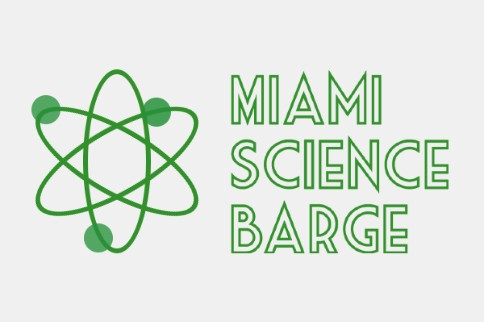
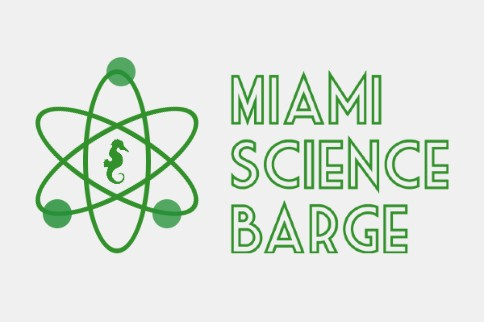
Added seahorse to hype

diff --git a/theme/hype.hyperesources/hype_hype_generated_script.js b/theme/hype.hyperesources/hype_hype_generated_script.js
@@ -2,5 +2,5 @@
 
 (function(){(function k(){var f="hype.hyperesources",d="hype",c="hype_hype_container";if(false==!1)try{for(var g=document.getElementsByTagName("script"),a=0;a<g.length;a++){var b=g[a].src;if(null!=b&&-1!=b.indexOf("hype_hype_generated_script.js")){f=b.substr(0,b.lastIndexOf("/"));break}}}catch(m){}if(false==!1&&null==window.HYPE_458)null==window.HYPE_dtl_458?(window.HYPE_dtl_458=[],window.HYPE_dtl_458.push(k),d=document.getElementsByTagName("head")[0],c=document.createElement("script"),
 a=navigator.userAgent.match(/MSIE (\d+\.\d+)/),a=parseFloat(a&&a[1])||null,c.type="text/javascript",c.src=f+"/"+(!0==(null!=a&&10>a||false==!0)?"HYPE-458.full.min.js":"HYPE-458.thin.min.js"),d.appendChild(c)):window.HYPE_dtl_458.push(k);else{window.HYPE_dtl_458=[];g=window.HYPE.documents;if(null!=g[d]){b=1;a=d;do d=""+a+"-"+b++;while(null!=g[d]);for(var e=document.getElementsByTagName("div"),b=!1,a=0;a<e.length;a++)if(e[a].id==c&&null==e[a].getAttribute("HYP_dn")){var b=
-1,h=c;do c=""+h+"-"+b++;while(null!=document.getElementById(c));e[a].id=c;b=!0;break}if(!1==b)return}b=[];b=[];e={};h={};for(a=0;a<b.length;a++)try{h[b[a].identifier]=b[a].name,e[b[a].name]=eval("(function(){return "+b[a].source+"})();")}catch(l){window.console&&window.console.log(l),e[b[a].name]=function(){}}f=new HYPE_458(d,c,{"0":{p:1,n:"sci-barge-outline.png",g:"44",t:"@1x"}},f,[],e,[{n:"Untitled Scene",o:"1",X:[0]}],[{A:{a:[{p:0}]},o:"3",p:"600px",x:0,cA:false,Z:400,Y:600,c:"#F0F0F0",L:[],bY:1,d:600,U:{},T:{kTimelineDefaultIdentifier:{f:30,z:5,i:"kTimelineDefaultIdentifier",n:"Main Timeline",j:{"0":[[120,256,120,256,133,253,183,223],[183,223,215,204,254,152,243,143],[243,143,216.03030303030303,121.42424242424242,150,153,124,166],[124,166,123,166,64.265993265993274,211.62809917355372,55,223],[55,223,33,250,58.575757575757578,264.50505050505052,66,265],[66,265,84,266,113,258,113,258]],"1":[[243,247,243,247,245,218,167,167],[167,167,111,130,57.694520967248238,127.28619528619528,49,142],[49,142,31,173,105,221,115,227],[115,227,235,300,242,247,242,247]],"2":[[174,124,174,124,183,151,186,204],[186,204,189,261,158,311,145,312],[145,312,113,314,104,231,103,190],[103,190,102,158,121.72727272727272,88,145,88],[145,88,159,89,174,125,174,125]]},a:[{o:"52",y:0,z:5,i:"a",e:95,a:"0",r:true,f:"b",s:102},{o:"52",y:0,z:5,i:"b",e:240,a:"0",r:true,f:"b",s:238},{o:"53",y:0,z:5,i:"a",e:224,a:"1",r:true,f:"b",s:225},{o:"53",y:0,z:5,i:"b",e:229,a:"1",r:true,f:"b",s:229},{o:"54",y:0,z:5,i:"b",e:107,a:"2",r:true,f:"b",s:106},{o:"54",y:0,z:5,i:"a",e:156,a:"2",r:true,f:"b",s:156},{f:"c",p:2,y:5,z:0,i:"ActionHandler",s:{a:[{i:0,b:"kTimelineDefaultIdentifier",p:9,symbolOid:"2"}]},o:"kTimelineDefaultIdentifier"},{y:5,i:"b",s:229,z:0,o:"53",f:"c"},{y:5,i:"a",s:224,z:0,o:"53",f:"c"},{y:5,i:"a",s:95,z:0,o:"52",f:"c"},{y:5,i:"b",s:240,z:0,o:"52",f:"c"},{y:5,i:"a",s:156,z:0,o:"54",f:"c"},{y:5,i:"b",s:107,z:0,o:"54",f:"c"}],b:[]}},bZ:180,O:["55","54","53","52","51","50","49"],v:{"52":{b:238,z:4,K:"None",c:36,L:"None",d:36,M:0,e:0.84936031879194629,N:0,O:0,g:"#339126",P:0,Q:0,tX:0.5,R:"#339126",j:"absolute",S:0,aI:"50%",k:"div",T:0,tY:0.5,aJ:"50%",aK:"50%",aL:"50%",A:"#339126",B:"#339126",bL:0,C:"#339126",D:"#339126",x:"visible",I:"None",a:102,J:"None"},"55":{h:"44",p:"no-repeat",x:"visible",a:286,q:"100% 100%",b:86,j:"absolute",r:"inline",c:270,k:"div",z:7,d:228},"50":{bR:0,c:72,d:216,I:"Solid",J:"Solid",f:120,K:"Solid",t:17,L:"Solid",M:6,aY:0,w:"",aI:"50%",A:"#3C9200",N:6,O:6,x:"visible",aJ:"50%",j:"absolute",C:"#3C9200",z:2,k:"div",D:"#3C9200",aK:"50%",B:"#3C9200",P:6,a:103,aL:"50%",b:86},"53":{b:229,z:5,K:"None",c:36,L:"None",d:36,M:0,e:0.77616401006711411,N:0,O:0,g:"#339126",P:0,Q:0,tX:0.5,R:"#339126",j:"absolute",S:0,aI:"50%",k:"div",T:0,tY:0.5,aJ:"50%",aK:"50%",aL:"50%",A:"#339126",B:"#339126",r:"inline",bL:0,C:"#339126",D:"#339126",x:"visible",I:"None",a:225,J:"None"},"51":{bR:0,c:72,d:216,I:"Solid",J:"Solid",f:240,K:"Solid",t:17,L:"Solid",M:6,aY:0,w:"",aI:"50%",A:"#3C9200",N:6,O:6,x:"visible",aJ:"50%",j:"absolute",C:"#3C9200",z:3,k:"div",D:"#3C9200",aK:"50%",B:"#3C9200",P:6,a:103,aL:"50%",b:86},"54":{b:106,z:6,K:"None",c:36,L:"None",d:36,M:0,e:0.77616399526596069,N:0,O:0,g:"#339126",P:0,Q:0,tX:0.5,R:"#339126",j:"absolute",S:0,aI:"50%",k:"div",T:0,tY:0.5,aJ:"50%",aK:"50%",aL:"50%",A:"#339126",B:"#339126",r:"inline",bL:0,C:"#339126",D:"#339126",x:"visible",I:"None",a:156,J:"None"},"49":{c:72,d:216,I:"Solid",J:"Solid",K:"Solid",t:17,L:"Solid",M:6,w:"",aI:"50%",A:"#3C9200",N:6,x:"visible",j:"absolute",aJ:"50%",O:6,C:"#3C9200",z:1,k:"div",D:"#3C9200",aK:"50%",B:"#3C9200",P:6,a:103,aL:"50%",b:86}}}],{},h,{},
+1,h=c;do c=""+h+"-"+b++;while(null!=document.getElementById(c));e[a].id=c;b=!0;break}if(!1==b)return}b=[];b=[];e={};h={};for(a=0;a<b.length;a++)try{h[b[a].identifier]=b[a].name,e[b[a].name]=eval("(function(){return "+b[a].source+"})();")}catch(l){window.console&&window.console.log(l),e[b[a].name]=function(){}}f=new HYPE_458(d,c,{"0":{p:1,n:"sci-barge-outline.png",g:"44",t:"@1x"},"1":{p:1,n:"seahorse-green.png",g:"49",o:true,t:"@1x"},"2":{p:1,n:"seahorse-green%402x.png",g:"49",o:true,t:"@2x"}},f,[],e,[{n:"Untitled Scene",o:"1",X:[0]}],[{A:{a:[{p:0}]},o:"3",p:"600px",x:0,cA:false,Z:400,Y:600,c:"#F0F0F0",L:[],bY:1,d:600,U:{},T:{kTimelineDefaultIdentifier:{f:30,z:5,i:"kTimelineDefaultIdentifier",n:"Main Timeline",j:{"0":[[120,256,120,256,133,253,183,223],[183,223,215,204,254,152,243,143],[243,143,216.03030303030303,121.42424242424242,150,153,124,166],[124,166,123,166,64.265993265993274,211.62809917355372,55,223],[55,223,33,250,58.575757575757578,264.50505050505052,66,265],[66,265,84,266,113,258,113,258]],"1":[[243,247,243,247,245,218,167,167],[167,167,111,130,57.694520967248238,127.28619528619528,49,142],[49,142,31,173,105,221,115,227],[115,227,235,300,242,247,242,247]],"2":[[174,124,174,124,183,151,186,204],[186,204,189,261,158,311,145,312],[145,312,113,314,104,231,103,190],[103,190,102,158,121.72727272727272,88,145,88],[145,88,159,89,174,125,174,125]]},a:[{o:"56",y:0,z:5,i:"a",e:95,a:"0",r:true,f:"b",s:102},{o:"56",y:0,z:5,i:"b",e:240,a:"0",r:true,f:"b",s:238},{o:"57",y:0,z:5,i:"a",e:224,a:"1",r:true,f:"b",s:225},{o:"57",y:0,z:5,i:"b",e:229,a:"1",r:true,f:"b",s:229},{o:"58",y:0,z:5,i:"b",e:107,a:"2",r:true,f:"b",s:106},{o:"58",y:0,z:5,i:"a",e:156,a:"2",r:true,f:"b",s:156},{f:"c",p:2,y:5,z:0,i:"ActionHandler",s:{a:[{i:0,b:"kTimelineDefaultIdentifier",p:9,symbolOid:"2"}]},o:"kTimelineDefaultIdentifier"},{y:5,i:"b",s:229,z:0,o:"57",f:"c"},{y:5,i:"a",s:224,z:0,o:"57",f:"c"},{y:5,i:"a",s:95,z:0,o:"56",f:"c"},{y:5,i:"b",s:240,z:0,o:"56",f:"c"},{y:5,i:"a",s:156,z:0,o:"58",f:"c"},{y:5,i:"b",s:107,z:0,o:"58",f:"c"}],b:[]}},bZ:180,O:["60","59","58","57","56","55","54","53"],v:{"60":{bR:0,h:"49",p:"no-repeat",x:"visible",a:128,q:"100% 100%",b:172,j:"absolute",r:"inline",z:8,k:"div",c:32,d:56,aY:0},"55":{bR:0,c:72,d:216,I:"Solid",J:"Solid",f:240,K:"Solid",t:17,L:"Solid",M:6,aY:0,w:"",aI:"50%",A:"#3C9200",N:6,O:6,x:"visible",aJ:"50%",j:"absolute",C:"#3C9200",z:3,k:"div",D:"#3C9200",aK:"50%",B:"#3C9200",P:6,a:103,aL:"50%",b:86},"58":{b:106,z:6,K:"None",c:36,L:"None",d:36,M:0,e:0.77616399526596069,N:0,O:0,g:"#339126",P:0,Q:0,tX:0.5,R:"#339126",j:"absolute",S:0,aI:"50%",k:"div",T:0,tY:0.5,aJ:"50%",aK:"50%",aL:"50%",A:"#339126",B:"#339126",r:"inline",bL:0,C:"#339126",D:"#339126",x:"visible",I:"None",a:156,J:"None"},"53":{c:72,d:216,I:"Solid",J:"Solid",K:"Solid",t:17,L:"Solid",M:6,w:"",aI:"50%",A:"#3C9200",N:6,x:"visible",j:"absolute",aJ:"50%",O:6,C:"#3C9200",z:1,k:"div",D:"#3C9200",aK:"50%",B:"#3C9200",P:6,a:103,aL:"50%",b:86},"56":{b:238,z:4,K:"None",c:36,L:"None",d:36,M:0,e:0.84936031879194629,N:0,O:0,g:"#339126",P:0,Q:0,tX:0.5,R:"#339126",j:"absolute",S:0,aI:"50%",k:"div",T:0,tY:0.5,aJ:"50%",aK:"50%",aL:"50%",A:"#339126",B:"#339126",bL:0,C:"#339126",D:"#339126",x:"visible",I:"None",a:102,J:"None"},"59":{h:"44",p:"no-repeat",x:"visible",a:286,q:"100% 100%",b:86,j:"absolute",r:"inline",c:270,k:"div",z:7,d:228},"54":{bR:0,c:72,d:216,I:"Solid",J:"Solid",f:120,K:"Solid",t:17,L:"Solid",M:6,aY:0,w:"",aI:"50%",A:"#3C9200",N:6,O:6,x:"visible",aJ:"50%",j:"absolute",C:"#3C9200",z:2,k:"div",D:"#3C9200",aK:"50%",B:"#3C9200",P:6,a:103,aL:"50%",b:86},"57":{b:229,z:5,K:"None",c:36,L:"None",d:36,M:0,e:0.77616401006711411,N:0,O:0,g:"#339126",P:0,Q:0,tX:0.5,R:"#339126",j:"absolute",S:0,aI:"50%",k:"div",T:0,tY:0.5,aJ:"50%",aK:"50%",aL:"50%",A:"#339126",B:"#339126",r:"inline",bL:0,C:"#339126",D:"#339126",x:"visible",I:"None",a:225,J:"None"}}}],{},h,{},
 0,false,false,false,-1,true,true,true);g[d]=f.API;document.getElementById(c).setAttribute("HYP_dn",d);f.z_o(this.body)}})();})();
